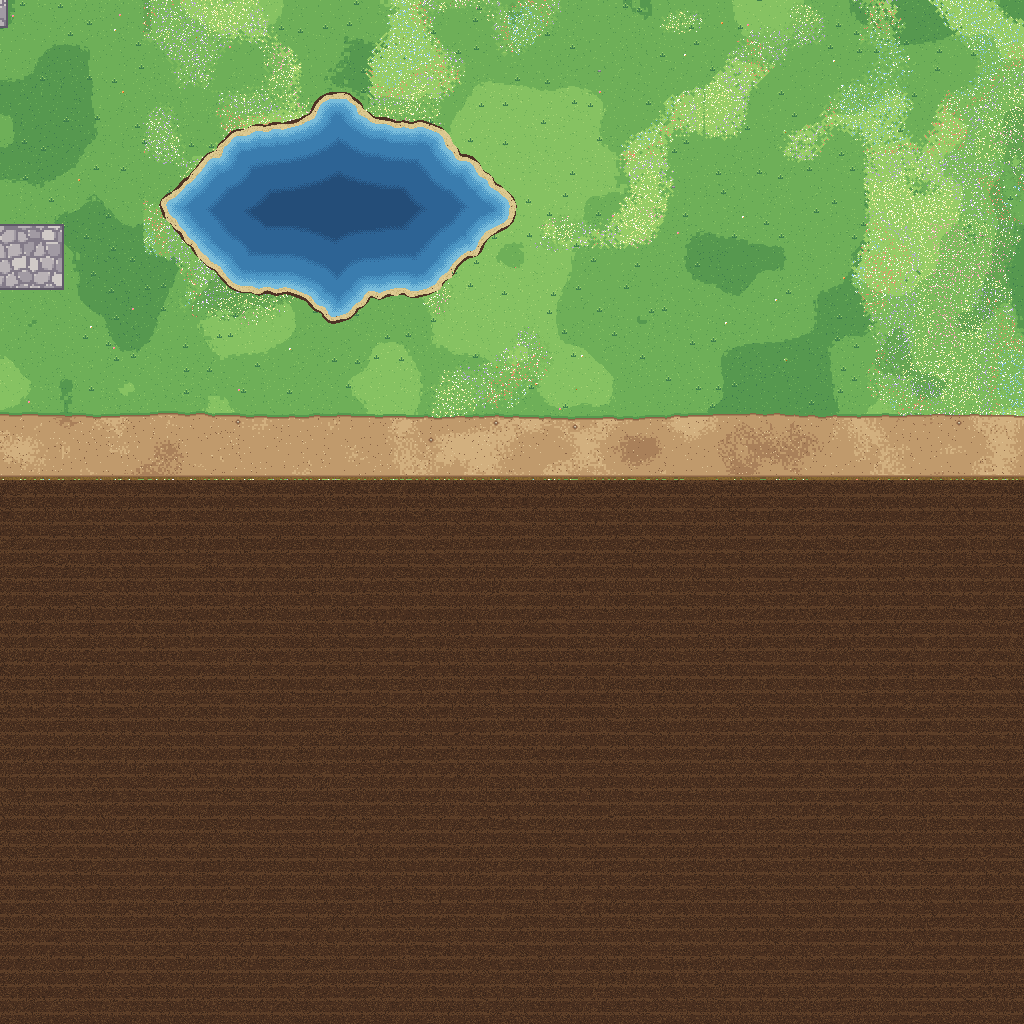
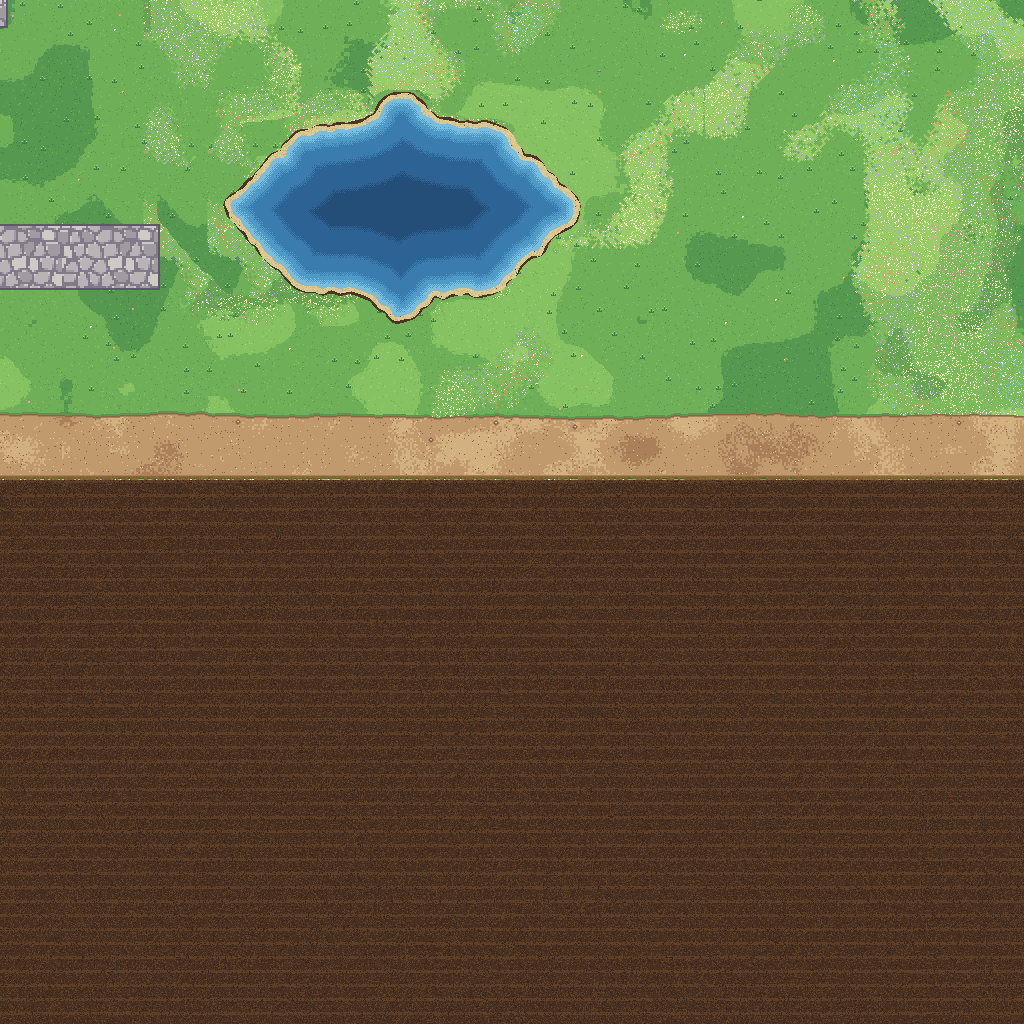
Wizard shop: Rex's new stone tower exterior
Drawn at the buildings' scale and moved east to fit; the village pond (painting, collision,
water sprite, ducks, minimap) moves 32 px east to make room, the cobbled street reaches the new
door, one cherry tree that stood where the tower is was removed and one tree moved off the new
bank.

Claude-Session: https://claude.ai/code/session_01UyEsHhhwY5pbE3D4yW6PxM

Changed region(s): [[0.0625, 0.0625, 0.5625, 0.3125]]

diff --git a/tools/move_pond.py b/tools/move_pond.py
@@ -1,0 +1,67 @@
+"""One-off (October 2026): moved the village pond 32 world px east to make room for the new
+wizard tower. Only the ground square g_4_2 is edited: the painted water and its sandy bank are
+lifted out, pasted 32 px further east, and the uncovered strip on the west is filled with the
+grass just west of it. The pond's collision (scripts/world.gd), its water-shader sprite
+(WaterPond1 in main.tscn) and the ducks (scripts/ducks.gd) were moved by the same amount.
+Kept for reference; running it again would move the pond again."""
+from PIL import Image, ImageFilter
+
+SQUARE = "art/ground/g_4_2.png"
+SQ_ORIGIN = (4 * 1024, 2 * 1024)        # art px of this square in the whole painting
+WORLD_ORIGIN = (-1680, -992)
+SHIFT = 32 * 2                           # art px (32 world px)
+REGION = (430, 60, 650, 205)             # world rect around the pond
+
+
+def to_sq(wx, wy):
+    return ((wx - WORLD_ORIGIN[0]) * 2 - SQ_ORIGIN[0], (wy - WORLD_ORIGIN[1]) * 2 - SQ_ORIGIN[1])
+
+
+def main():
+    sq = Image.open(SQUARE).convert("RGB")
+    x0, y0 = to_sq(REGION[0], REGION[1])
+    x1, y1 = to_sq(REGION[2], REGION[3])
+    px = sq.load()
+    water = Image.new("L", sq.size)
+    wp = water.load()
+    for y in range(y0, y1):
+        for x in range(x0, x1):
+            r, g, b = px[x, y]
+            if b > r + 40 and b > g:
+                wp[x, y] = 255
+    # keep only the pond itself (the biggest patch of blue), not blue flower specks
+    seen, best = set(), set()
+    for y in range(y0, y1):
+        for x in range(x0, x1):
+            if wp[x, y] and (x, y) not in seen:
+                comp, todo = set(), [(x, y)]
+                seen.add((x, y))
+                while todo:
+                    cx, cy = todo.pop()
+                    comp.add((cx, cy))
+                    for q in ((cx + 1, cy), (cx - 1, cy), (cx, cy + 1), (cx, cy - 1)):
+                        if x0 <= q[0] < x1 and y0 <= q[1] < y1 and wp[q] and q not in seen:
+                            seen.add(q)
+                            todo.append(q)
+                if len(comp) > len(best):
+                    best = comp
+    water = Image.new("L", sq.size)
+    wp = water.load()
+    for q in best:
+        wp[q] = 255
+    mask = water.filter(ImageFilter.MaxFilter(19))          # water + bank + outline
+    mp = mask.load()
+    old = sq.copy()
+    op = old.load()
+    pond = {(x, y) for y in range(y0, y1) for x in range(x0, x1) if mp[x, y]}
+    moved = {(x + SHIFT, y) for (x, y) in pond}
+    for (x, y) in pond - moved:                              # uncovered: grass from the west
+        px[x, y] = op[x - SHIFT, y]
+    for (x, y) in pond:
+        px[x + SHIFT, y] = op[x, y]
+    sq.save(SQUARE, optimize=True)
+    print(f"moved {len(pond)} pond pixels")
+
+
+if __name__ == "__main__":
+    main()

diff --git a/tools/extend_village_street.py b/tools/extend_village_street.py
@@ -1,0 +1,45 @@
+"""One-off (October 2026): extends the painted cobblestone village street 48 world px east so it
+reaches the new wizard tower's door. Edits ground squares g_3_2 and g_4_2: the street's last 48 px of
+cobbles are copied onto the grass east of it and its end border is moved to the new end."""
+from PIL import Image
+
+# the street's end sits on the seam between two ground squares, so both are edited together
+SQUARES = ["art/ground/g_3_2.png", "art/ground/g_4_2.png"]
+SQ_ORIGIN = (3 * 1024, 2 * 1024)
+WORLD_ORIGIN = (-1680, -992)
+EXTEND = 48 * 2       # art px
+
+
+def grey(c):
+    return max(c) - min(c) < 40 and sum(c) < 700
+
+
+def main():
+    sq = Image.new("RGB", (2048, 1024))
+    for i, f in enumerate(SQUARES):
+        sq.paste(Image.open(f).convert("RGB"), (i * 1024, 0))
+    px = sq.load()
+    mid_y = (160 - WORLD_ORIGIN[1]) * 2 - SQ_ORIGIN[1]
+    x = (380 - WORLD_ORIGIN[0]) * 2 - SQ_ORIGIN[0]
+    while grey(px[x + 1, mid_y]):
+        x += 1
+    end = x                                        # last street column (its border)
+    top = mid_y
+    while grey(px[end - 20, top - 1]):
+        top -= 1
+    bot = mid_y
+    while grey(px[end - 20, bot + 1]):
+        bot += 1
+    border = 2
+    old = sq.copy()
+    body = old.crop((end - border + 1 - EXTEND, top, end - border + 1, bot + 1))
+    cap = old.crop((end - border + 1, top, end + 1, bot + 1))
+    sq.paste(body, (end - border + 1, top))
+    sq.paste(cap, (end - border + 1 + EXTEND, top))
+    for i, f in enumerate(SQUARES):
+        sq.crop((i * 1024, 0, (i + 1) * 1024, 1024)).save(f, optimize=True)
+    print("street end", end, "rows", top, bot)
+
+
+if __name__ == "__main__":
+    main()

diff --git a/docs/PROJECT_SUMMARY.md b/docs/PROJECT_SUMMARY.md
@@ -82,7 +82,10 @@ A handoff for a new Claude chat. Read this first, then `CLAUDE.md` (project rule
 - **West coast:** ocean, beach, Pirate Captains along the coast, and a **wooden dock** at the west end
   of the road (walkable, fishable).
 - **Village:** Luck (quest NPC), the notice board, shops (fishing, potions, pets, wizard). The default
-  spawn is the crossroads just south of Luck, at (208, 256).
+  spawn is the crossroads just south of Luck, at (208, 256). The wizard shop is Rex's stone tower
+  (`art/bld_wizard_tower.png`, at the same scale as the other buildings, so bigger than them);
+  to make room the village pond was moved 32 px east (`tools/move_pond.py`) and the cobbled street
+  extended to its door (`tools/extend_village_street.py`), both one-off edits of the ground.
   - Shop interiors are one room picture plus invisible solid rectangles (`scripts/interior.gd`). The
     potion shop is Rex's generated room (128x128 world px, smaller than the other shops), built by
     `tools/gen_potion_interior.py`, which lays the old shop's floorboards under its transparent floor
